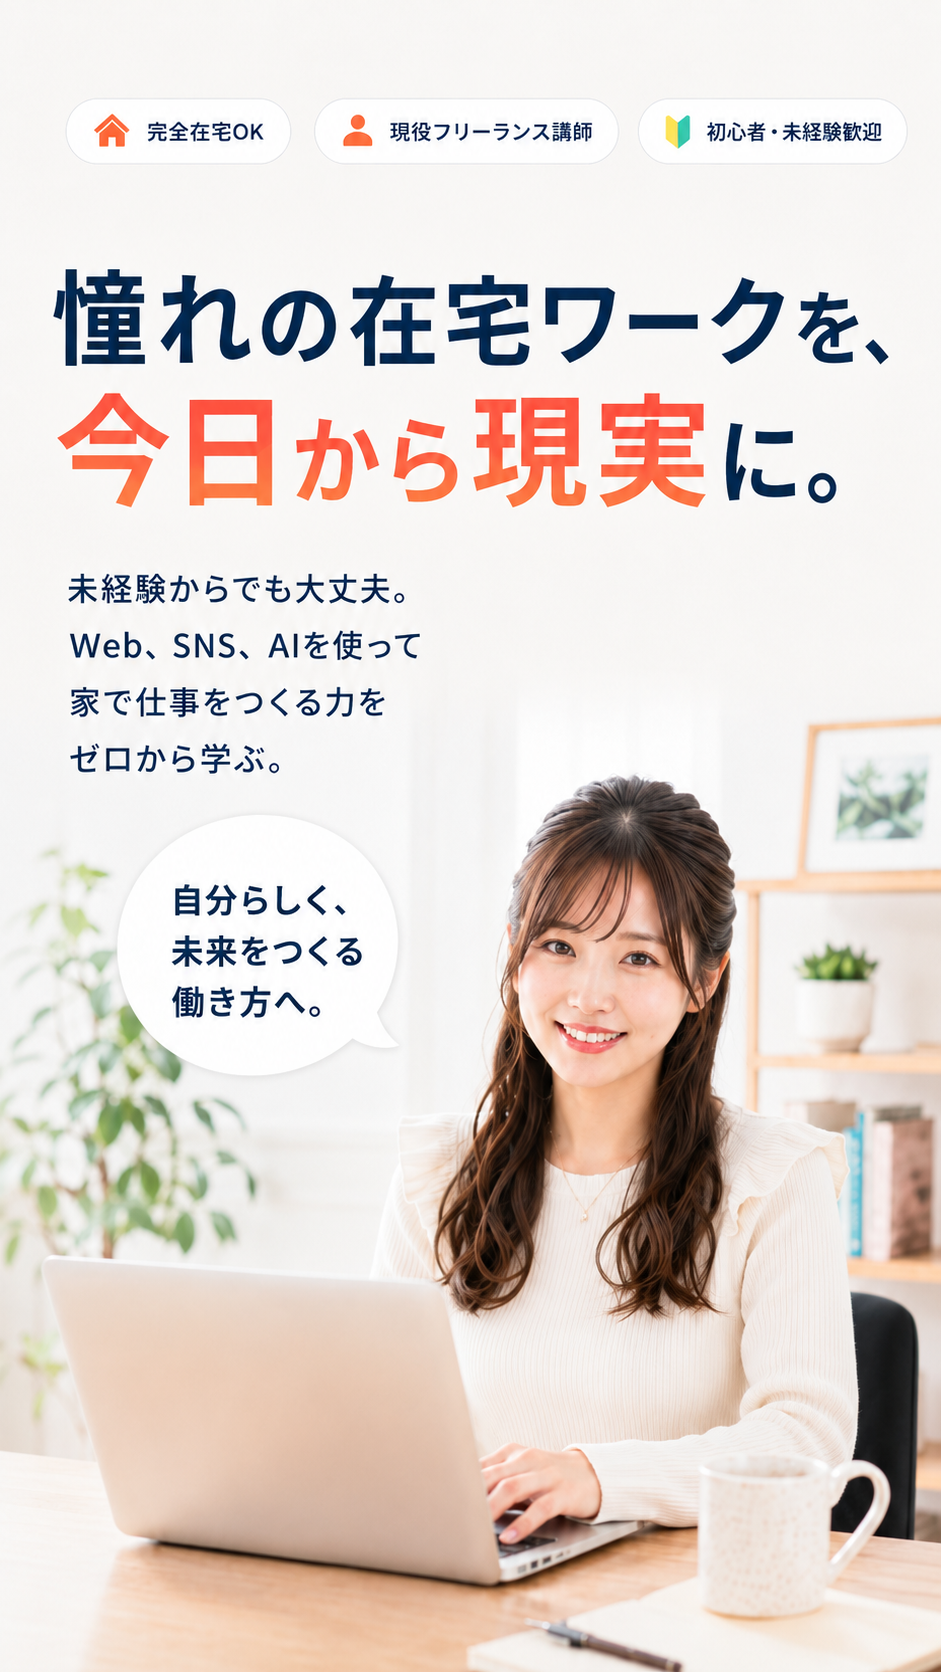
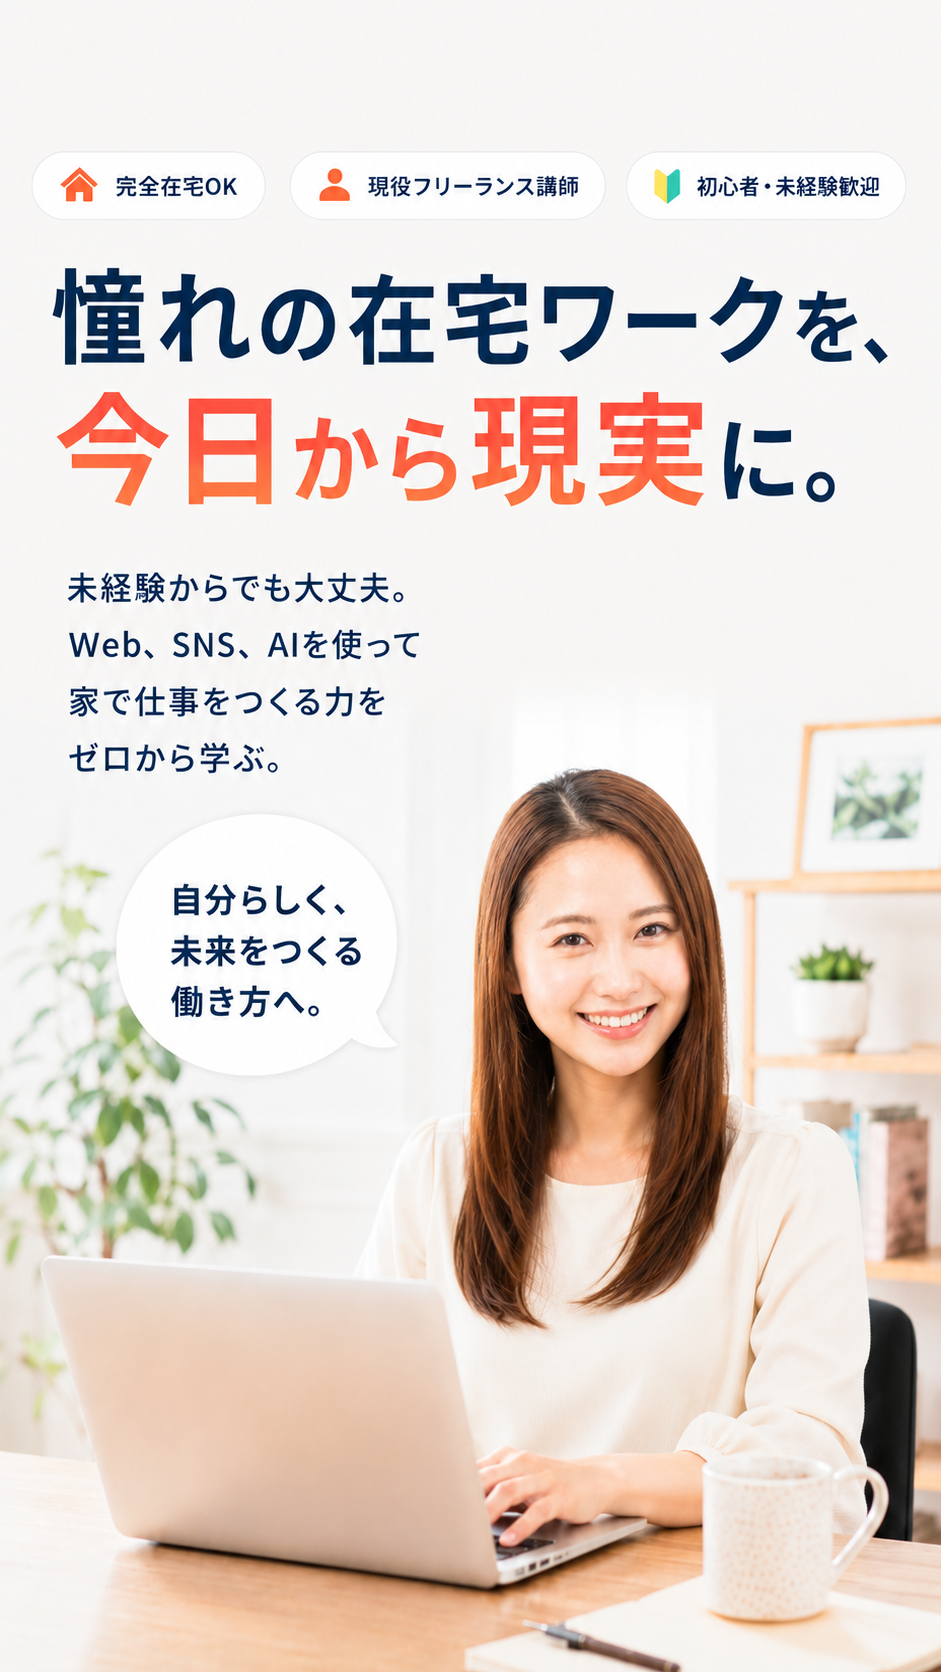
SPヒーロー差し替え・お悩みセクションを画像に置換
- hero-sp.png: 最新版に差し替え
- pain.png: お悩みセクションをデザイン済み画像1枚に丸ごと置換
  (01スクール高額/02稼げるか不安/03何から始めるか全部わからない)

diff --git a/index.html b/index.html
@@ -248,7 +248,9 @@ header{
 }
 
 /* ════ PAIN ════ */
-.pain-sec{background:#fff}
+.pain-sec{background:#fff;padding:0}
+.pain-img-wrap{max-width:640px;margin:0 auto}
+.pain-img-wrap img{width:100%;display:block}
 .pain-statement{margin-top:60px}
 .pain-item{
   padding:40px 0;border-bottom:1px solid var(--line);
@@ -905,36 +907,8 @@ footer{background:var(--dark);color:rgba(255,255,255,.45);padding:60px 0 36px;fo
 
 <!-- ══ PAIN ══ -->
 <section class="section pain-sec">
-  <div class="wrap center reveal">
-<h2 class="title">「やってみたい」けど、<br>こんな不安で<br class="sp-br">止まっていませんか？</h2>
-  </div>
-  <div class="wrap pain-statement">
-    <div class="pain-item reveal d1">
-      <div class="pain-no">01</div>
-      <div class="pain-text">
-        <h3>スクールが高額で、諦めてしまっている</h3>
-        <p class="sp-hide">学びたい気持ちはあるのに、費用の高さがネックで一歩が踏み出せない。「元が取れるのか」と考えるだけで止まってしまう。</p>
-      </div>
-    </div>
-    <div class="pain-item reveal d1">
-      <div class="pain-no">02</div>
-      <div class="pain-text">
-        <h3>それで本当に稼げるのか、正直不安</h3>
-        <p class="sp-hide">教材を買っても「意味があったのか」と感じた経験がある。学んでも稼げないまま終わるんじゃないか、とどこかで思っている。</p>
-      </div>
-    </div>
-    <div class="pain-item reveal d1">
-      <div class="pain-no">03</div>
-      <div class="pain-text">
-        <h3>自分の得意も、稼げるスキルも、何から始めればいいかも、全部わからない</h3>
-        <p class="sp-hide">何が向いているのか、何が稼げるのか、どこから手をつければいいのか——全部わからないのが、一番の壁だったりする。</p>
-      </div>
-    </div>
-  </div>
-  <div class="wrap reveal">
-    <div class="pain-close">
-      <p>その不安、ぜんぶ正直だと思います。<br>だから私たちは、<span class="acc">「稼げるかどうか」だけ</span>にこだわりました。</p>
-    </div>
+  <div class="pain-img-wrap reveal">
+    <img src="images/pain.png" alt="やってみたいけど、こんな不安で止まっていませんか？">
   </div>
 </section>
 